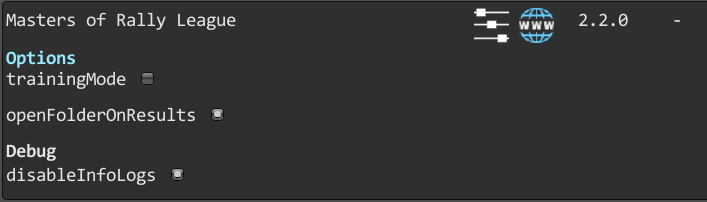
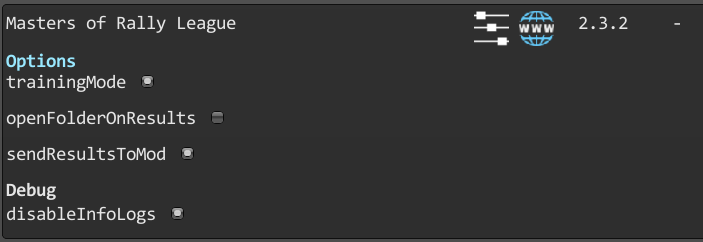
Update doc

diff --git a/Readme.md b/Readme.md
@@ -26,10 +26,16 @@ The mod will display the information relative to the current MRL rally and start
 
 You can also get details and lore on the current event from the Masters of Rally League discord in the `#rally-events` channel.
 
-The mod will open an explorer page by the time you finish the rally to the location of the result file.\
-You can post this file in `#submissions` on the Masters of Rally League discord server.
+When you finish the rally, the mod will generate a file containing the results of the rally, called `RallyResults.mrl`
 
 ![](Screenshots/File.png)
+
+Then it will behave differently depending on your settings :
+
+- **sendResultsToMod is enabled** : the mod will attempt to send results directly to the **MRL discord bot** (this requires you to link your art of rally user name and discord user name through the `/link-mod` MRL discord bot command)
+- **openFolderOnResults is enabled** : the mod will open an explorer page to the location of the rally results file
+
+If **sendResultsToMod** is disabled or if the operation failed, you can use the `/submission` command of the MRL discord bot to attach the `RallyResults.mrl` file. The bot will then post the results to the `#submissions` channel.
 
 Press Ctrl + F10 to open the mod manager menu.
 
@@ -37,6 +43,7 @@ Press Ctrl + F10 to open the mod manager menu.
 
 - **trainingMode** : training mode will enable the restarts and disable results generation. You can enable training mode during the rally.
 - **openFolderOnResults** : will open the folder in which the results will be written at the end of the rally.
+- **sendResultsToMod** : will attempt to send the results directly to the MRL discord bot.
 
 Disabling the mod in the manager will do nothing by default.
 
